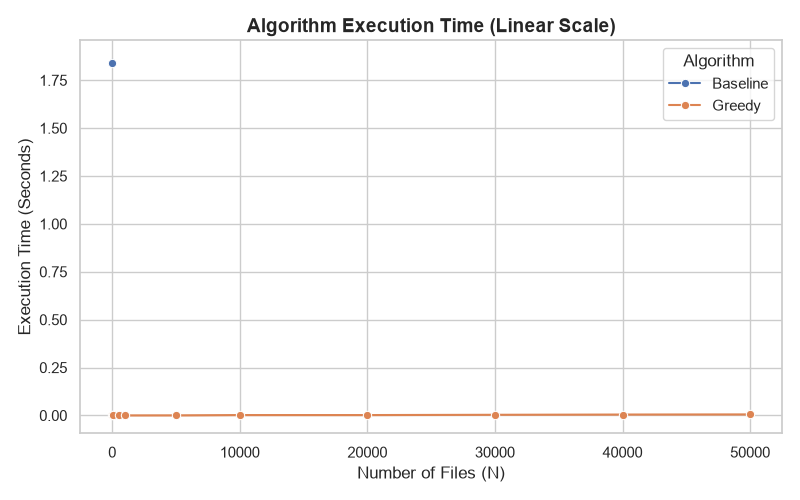
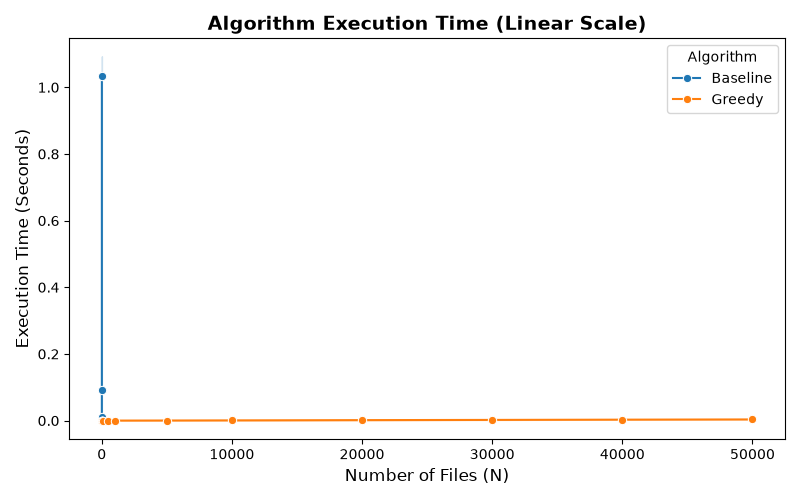
test: add test cases to benchmark.py to visualize baseline efficiently, add plot for just baseline, add Empirical Synthesis findings to findings.md

diff --git a/src/benchmark.py b/src/benchmark.py
@@ -25,13 +25,13 @@ def benchmark_algo_multi(algo, test_cases, repeat=1):
 
 def run_benchmarks():
     # Identical input sizes shared by both algorithms
-    input_sizes = [10, 50, 100, 500, 1000, 5000, 10000, 20000, 30000, 40000, 50000]
+    input_sizes = [5, 7, 8, 9, 10, 50, 100, 500, 1000, 5000, 10000, 20000, 30000, 40000, 50000]
     L = 100
 
     # Generate one master set of test cases so inputs are identical
     test_cases = [generate_test_data(size, L) for size in input_sizes]
 
-    # Filter test cases for Baseline to only keep sizes <= 10 items (needed as to prevent freezing because the baseline algorithm is O(n^2) and will take too long for larger sizes)
+    # Limit the baseline to at most 10 files because its O(n * n!) time complexity makes larger inputs impractical
     baseline_test_cases = [case for case in test_cases if len(case) <= 10]
 
     print("Running Baseline algorithm (Filtered to safe sizes)...")

diff --git a/reflection/findings.md b/reflection/findings.md
@@ -1,0 +1,21 @@
+# Findings
+
+## Empirical Synthesis
+
+Our empirical results show a significant difference in efficiency compared to the brute-force baseline and our proposed greedy algorithm. The baseline has a theoretical time complexity of **O(n × n!)** as it attempts all possible arrangements of the files. However, the greedy algorithm takes **O(n log n)** time since it sorts the files before determining the average completion time. Our benchmarking results are consistent with these theoretical expectations and show that the greedy approach is significantly more efficient as the number of files gets larger.
+
+For an input size of 10 files, the brute-force algorithm took on average approximately **1.84 seconds**, while the greedy algorithm ran for approximately **0.00000314 seconds**. This difference demonstrates how fast the factorial complexity of the baseline becomes impractical. Hence the baseline benchmarks were restricted to smaller input sizes while the greedy algorithm was tested with up to 50,000 files. Even at this largest input size the greedy algorithm took **0.00528 seconds**, roughly.
+
+We can also see from our visualizations how the algorithms differ. The baseline's runtime increases rapidly on the linear-scale graph, while the greedy algorithm appears almost flat as its running times are significantly smaller. The logarithmic-scale graph shows the runtime differences for the input sizes tested more effectively. In general, the running times of the greedy algorithm increased with input size. It did have some minor swings though, which could be due to system activity.
+
+Overall, our empirical results support our theoretical analysis and show that the greedy algorithm is a much more scalable approach to the Processing Files problem. The greedy algorithm requires far less computation, but still gives the same optimal result as the baseline, which checks all possible orderings. One limitation of our evaluation is that the baseline was only measured at small input sizes so our benchmarks may offer limited direct evidence of its factorial growth.
+
+![Execution Time Comparison (Linear Scale)](../assets/benchmark_plot.png)
+
+![Execution Time Comparison (Logarithmic Scale)](../assets/benchmark_plot_log.png)
+
+![Execution Time Comparison (Baseline Only)](../assets/benchmark_baseline.png)
+
+## Baseline Comparison
+
+## Reflection
